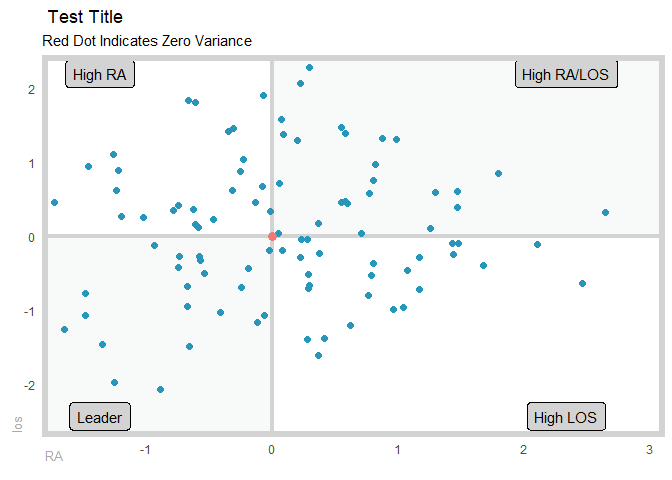
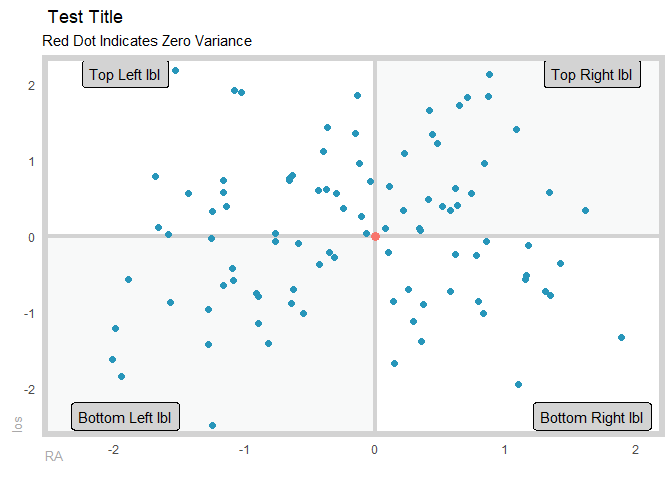
update site after last commit

diff --git a/docs/reference/plt_gartner_magic_chart.html b/docs/reference/plt_gartner_magic_chart.html
@@ -72,7 +72,7 @@
       </button>
       <span class="navbar-brand">
         <a class="navbar-link" href="../index.html">healthyR</a>
-        <span class="version label label-default" data-toggle="tooltip" data-placement="bottom" title="Released version">0.0.0.9004</span>
+        <span class="version label label-default" data-toggle="tooltip" data-placement="bottom" title="Released version">0.0.0.9005</span>
       </span>
     </div>
 
@@ -132,7 +132,18 @@
     <p>Plot a Gartner Magic Chart of two continuous variabls</p>
     </div>
 
-    <pre class="usage"><span class='fu'>plt_gartner_magic_chart</span><span class='op'>(</span><span class='va'>.data</span>, <span class='va'>.x_col</span>, <span class='va'>.y_col</span>, <span class='va'>.y_lab</span>, <span class='va'>.x_lab</span>, <span class='va'>.plt_title</span><span class='op'>)</span></pre>
+    <pre class="usage"><span class='fu'>plt_gartner_magic_chart</span><span class='op'>(</span>
+  <span class='va'>.data</span>,
+  <span class='va'>.x_col</span>,
+  <span class='va'>.y_col</span>,
+  <span class='va'>.y_lab</span>,
+  <span class='va'>.x_lab</span>,
+  <span class='va'>.plt_title</span>,
+  <span class='va'>.tl_lbl</span>,
+  <span class='va'>.tr_lbl</span>,
+  <span class='va'>.br_lbl</span>,
+  <span class='va'>.bl_lbl</span>
+<span class='op'>)</span></pre>
 
     <h2 class="hasAnchor" id="arguments"><a class="anchor" href="#arguments"></a>Arguments</h2>
     <table class="ref-arguments">
@@ -161,6 +172,22 @@
       <th>.plt_title</th>
       <td><p>The title of the plot</p></td>
     </tr>
+    <tr>
+      <th>.tl_lbl</th>
+      <td><p>The top left label</p></td>
+    </tr>
+    <tr>
+      <th>.tr_lbl</th>
+      <td><p>The top right label</p></td>
+    </tr>
+    <tr>
+      <th>.br_lbl</th>
+      <td><p>The bottom right label</p></td>
+    </tr>
+    <tr>
+      <th>.bl_lbl</th>
+      <td><p>The bottom left label</p></td>
+    </tr>
     </table>
 
     <h2 class="hasAnchor" id="value"><a class="anchor" href="#value"></a>Value</h2>
@@ -187,6 +214,10 @@ each other</p></li>
   , .x_lab <span class='op'>=</span> <span class='st'>"los"</span>
   , .y_lab <span class='op'>=</span> <span class='st'>"ra"</span>
   , .plt_title <span class='op'>=</span> <span class='st'>"tst"</span>
+  , .tr_lbl <span class='op'>=</span> <span class='st'>"High RA-LOS"</span>
+  , .tl_lbl <span class='op'>=</span> <span class='st'>"High RA"</span>
+  , .bl_lbl <span class='op'>=</span> <span class='st'>"Leader"</span>
+  , .br_lbl <span class='op'>=</span> <span class='st'>"High LOS"</span>
 <span class='op'>)</span>
 </div><div class='img'><img src='plt_gartner_magic_chart-1.png' alt='' width='700' height='433' /></div><div class='input'>
 </div></pre>

diff --git a/docs/news/index.html b/docs/news/index.html
@@ -71,7 +71,7 @@
       </button>
       <span class="navbar-brand">
         <a class="navbar-link" href="../index.html">healthyR</a>
-        <span class="version label label-default" data-toggle="tooltip" data-placement="bottom" title="Released version">0.0.0.9004</span>
+        <span class="version label label-default" data-toggle="tooltip" data-placement="bottom" title="Released version">0.0.0.9005</span>
       </span>
     </div>
 
@@ -126,27 +126,47 @@
       <small>Source: <a href='https://github.com/spsanderson/healthyR/blob/master/NEWS.md'><code>NEWS.md</code></a></small>
     </div>
 
-    <div id="healthyr-0009004" class="section level1">
-<h1 class="page-header" data-toc-text="0.0.0.9004">
-<a href="#healthyr-0009004" class="anchor"></a>healthyR 0.0.0.9004</h1>
+    <div id="healthyr-development-version" class="section level1">
+<h1 class="page-header" data-toc-text="development version">
+<a href="#healthyr-development-version" class="anchor"></a>healthyR (development version)</h1>
+</div>
+    <div id="healtyr-0009005" class="section level1">
+<h1 class="page-header" data-toc-text="0.0.0.9005">
+<a href="#healtyr-0009005" class="anchor"></a>healtyR 0.0.0.9005</h1>
+<ul>
+<li>Add parameters to gartner magic chart for interior lables</li>
+</ul>
+<div id="healthyr-0009004" class="section level2">
+<h2 class="hasAnchor">
+<a href="#healthyr-0009004" class="anchor"></a>healthyR 0.0.0.9004</h2>
 <ul>
 <li>Update sql substring ike functions</li>
 </ul>
-<p>##healthyR 0.0.0.9003</p>
+</div>
+<div id="healthyr-0009003" class="section level2">
+<h2 class="hasAnchor">
+<a href="#healthyr-0009003" class="anchor"></a>healthyR 0.0.0.9003</h2>
 <ul>
 <li>Added plt_gartner_magic_chart()</li>
 </ul>
+</div>
 <div id="healthyr-0009002" class="section level2">
 <h2 class="hasAnchor">
 <a href="#healthyr-0009002" class="anchor"></a>healthyR 0.0.0.9002</h2>
 <ul>
 <li>Added the function opt_bin()</li>
 </ul>
-<p>##healthyR 0.0.0.9001</p>
+</div>
+<div id="healthyr-0009001" class="section level2">
+<h2 class="hasAnchor">
+<a href="#healthyr-0009001" class="anchor"></a>healthyR 0.0.0.9001</h2>
 <ul>
 <li>Added the function ts_ymwdh_tbl()</li>
 </ul>
-<p>##healthyR 0.0.0.9000</p>
+</div>
+<div id="healthyr-0009000" class="section level2">
+<h2 class="hasAnchor">
+<a href="#healthyr-0009000" class="anchor"></a>healthyR 0.0.0.9000</h2>
 <ul>
 <li>Added a NEWS.md file to track changes to the package.</li>
 </ul>

diff --git a/docs/index.html b/docs/index.html
@@ -32,7 +32,7 @@
       </button>
       <span class="navbar-brand">
         <a class="navbar-link" href="index.html">healthyR</a>
-        <span class="version label label-default" data-toggle="tooltip" data-placement="bottom" title="Released version">0.0.0.9004</span>
+        <span class="version label label-default" data-toggle="tooltip" data-placement="bottom" title="Released version">0.0.0.9005</span>
       </span>
     </div>
 
@@ -153,7 +153,11 @@
 <span id="cb5-16"><a href="#cb5-16" aria-hidden="true"></a>  , <span class="dt">.y_lab =</span> <span class="st">"los"</span></span>
 <span id="cb5-17"><a href="#cb5-17" aria-hidden="true"></a>  , <span class="dt">.x_lab =</span> <span class="st">"RA"</span></span>
 <span id="cb5-18"><a href="#cb5-18" aria-hidden="true"></a>  , <span class="dt">.plt_title =</span> <span class="st">"Test Title"</span></span>
-<span id="cb5-19"><a href="#cb5-19" aria-hidden="true"></a>)</span></code></pre></div>
+<span id="cb5-19"><a href="#cb5-19" aria-hidden="true"></a>  , <span class="dt">.tl_lbl =</span> <span class="st">"Top Left lbl"</span></span>
+<span id="cb5-20"><a href="#cb5-20" aria-hidden="true"></a>  , <span class="dt">.tr_lbl =</span> <span class="st">"Top Right lbl"</span></span>
+<span id="cb5-21"><a href="#cb5-21" aria-hidden="true"></a>  , <span class="dt">.bl_lbl =</span> <span class="st">"Bottom Left lbl"</span></span>
+<span id="cb5-22"><a href="#cb5-22" aria-hidden="true"></a>  , <span class="dt">.br_lbl =</span> <span class="st">"Bottom Right lbl"</span></span>
+<span id="cb5-23"><a href="#cb5-23" aria-hidden="true"></a>)</span></code></pre></div>
 <p><img src="reference/figures/README-gartner_chart-1.png" width="100%"></p>
 </div>
 </div>

diff --git a/docs/articles/getting-started_files/anchor-sections-1.0/anchor-sections.js b/docs/articles/getting-started_files/anchor-sections-1.0/anchor-sections.js
@@ -1,0 +1,33 @@
+// Anchor sections v1.0 written by Atsushi Yasumoto on Oct 3rd, 2020.
+document.addEventListener('DOMContentLoaded', function() {
+  // Do nothing if AnchorJS is used
+  if (typeof window.anchors === 'object' && anchors.hasOwnProperty('hasAnchorJSLink')) {
+    return;
+  }
+
+  const h = document.querySelectorAll('h1, h2, h3, h4, h5, h6');
+
+  // Do nothing if sections are already anchored
+  if (Array.from(h).some(x => x.classList.contains('hasAnchor'))) {
+    return null;
+  }
+
+  // Use section id when pandoc runs with --section-divs
+  const section_id = function(x) {
+    return ((x.classList.contains('section') || (x.tagName === 'SECTION'))
+            ? x.id : '');
+  };
+
+  // Add anchors
+  h.forEach(function(x) {
+    const id = x.id || section_id(x.parentElement);
+    if (id === '') {
+      return null;
+    }
+    let anchor = document.createElement('a');
+    anchor.href = '#' + id;
+    anchor.classList = ['anchor-section'];
+    x.classList.add('hasAnchor');
+    x.appendChild(anchor);
+  });
+});

diff --git a/docs/articles/getting-started.html b/docs/articles/getting-started.html
@@ -31,7 +31,7 @@
       </button>
       <span class="navbar-brand">
         <a class="navbar-link" href="../index.html">healthyR</a>
-        <span class="version label label-default" data-toggle="tooltip" data-placement="bottom" title="Released version">0.0.0.9004</span>
+        <span class="version label label-default" data-toggle="tooltip" data-placement="bottom" title="Released version">0.0.0.9005</span>
       </span>
     </div>
 
@@ -79,7 +79,8 @@
 
       
 
-      </header><script src="getting-started_files/header-attrs-2.4/header-attrs.js"></script><div class="row">
+      </header><script src="getting-started_files/header-attrs-2.5/header-attrs.js"></script><link href="getting-started_files/anchor-sections-1.0/anchor-sections.css" rel="stylesheet">
+<script src="getting-started_files/anchor-sections-1.0/anchor-sections.js"></script><div class="row">
   <div class="col-md-9 contents">
     <div class="page-header toc-ignore">
       <h1 data-toc-skip>Getting Started with healthyR</h1>

diff --git a/docs/articles/getting-started_files/header-attrs-2.5/header-attrs.js b/docs/articles/getting-started_files/header-attrs-2.5/header-attrs.js
@@ -1,0 +1,12 @@
+// Pandoc 2.9 adds attributes on both header and div. We remove the former (to
+// be compatible with the behavior of Pandoc < 2.8).
+document.addEventListener('DOMContentLoaded', function(e) {
+  var hs = document.querySelectorAll("div.section[class*='level'] > :first-child");
+  var i, h, a;
+  for (i = 0; i < hs.length; i++) {
+    h = hs[i];
+    if (!/^h[1-6]$/i.test(h.tagName)) continue;  // it should be a header h1-h6
+    a = h.attributes;
+    while (a.length > 0) h.removeAttribute(a[0].name);
+  }
+});

diff --git a/docs/reference/opt_bin.html b/docs/reference/opt_bin.html
@@ -75,7 +75,7 @@ the desired amoutn of bins" />
       </button>
       <span class="navbar-brand">
         <a class="navbar-link" href="../index.html">healthyR</a>
-        <span class="version label label-default" data-toggle="tooltip" data-placement="bottom" title="Released version">0.0.0.9004</span>
+        <span class="version label label-default" data-toggle="tooltip" data-placement="bottom" title="Released version">0.0.0.9005</span>
       </span>
     </div>
 

diff --git a/docs/reference/tidyeval.html b/docs/reference/tidyeval.html
@@ -104,7 +104,7 @@ section of Advanced R." />
       </button>
       <span class="navbar-brand">
         <a class="navbar-link" href="../index.html">healthyR</a>
-        <span class="version label label-default" data-toggle="tooltip" data-placement="bottom" title="Released version">0.0.0.9004</span>
+        <span class="version label label-default" data-toggle="tooltip" data-placement="bottom" title="Released version">0.0.0.9005</span>
       </span>
     </div>
 

diff --git a/docs/articles/index.html b/docs/articles/index.html
@@ -71,7 +71,7 @@
       </button>
       <span class="navbar-brand">
         <a class="navbar-link" href="../index.html">healthyR</a>
-        <span class="version label label-default" data-toggle="tooltip" data-placement="bottom" title="Released version">0.0.0.9004</span>
+        <span class="version label label-default" data-toggle="tooltip" data-placement="bottom" title="Released version">0.0.0.9005</span>
       </span>
     </div>
 

diff --git a/docs/reference/index.html b/docs/reference/index.html
@@ -71,7 +71,7 @@
       </button>
       <span class="navbar-brand">
         <a class="navbar-link" href="../index.html">healthyR</a>
-        <span class="version label label-default" data-toggle="tooltip" data-placement="bottom" title="Released version">0.0.0.9004</span>
+        <span class="version label label-default" data-toggle="tooltip" data-placement="bottom" title="Released version">0.0.0.9005</span>
       </span>
     </div>
 

diff --git a/docs/reference/pipe.html b/docs/reference/pipe.html
@@ -72,7 +72,7 @@
       </button>
       <span class="navbar-brand">
         <a class="navbar-link" href="../index.html">healthyR</a>
-        <span class="version label label-default" data-toggle="tooltip" data-placement="bottom" title="Released version">0.0.0.9004</span>
+        <span class="version label label-default" data-toggle="tooltip" data-placement="bottom" title="Released version">0.0.0.9005</span>
       </span>
     </div>
 

diff --git a/docs/reference/sql_left.html b/docs/reference/sql_left.html
@@ -72,7 +72,7 @@
       </button>
       <span class="navbar-brand">
         <a class="navbar-link" href="../index.html">healthyR</a>
-        <span class="version label label-default" data-toggle="tooltip" data-placement="bottom" title="Released version">0.0.0.9004</span>
+        <span class="version label label-default" data-toggle="tooltip" data-placement="bottom" title="Released version">0.0.0.9005</span>
       </span>
     </div>
 
